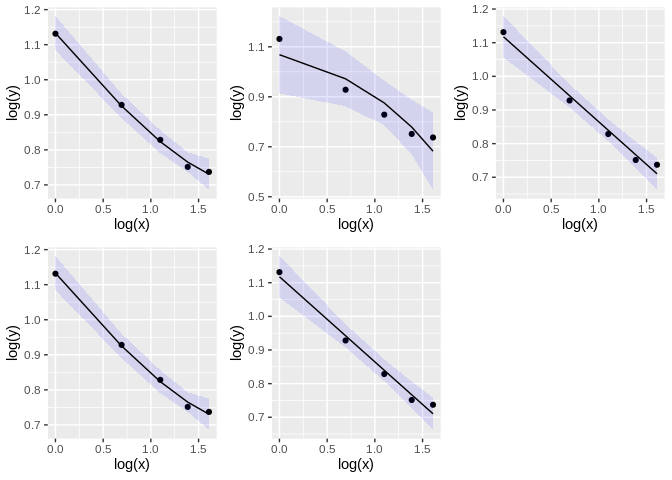
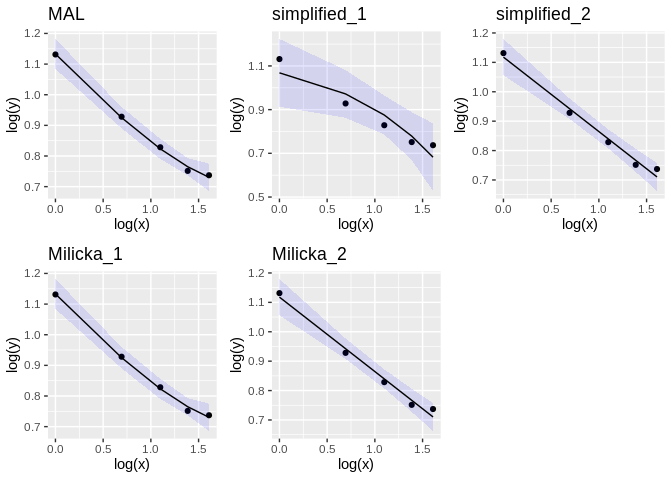
Add figure titles and suggested packages

diff --git a/README.md b/README.md
@@ -189,14 +189,12 @@ parameters from real data. We can do so using Altmann’s data (Altman
 ``` r
 library(cowplot)
 ms <- menzerath(morpheme_syllable)
-MAL_plot <- plot(ms, fit=TRUE, method="MAL")
-simplified_1_plot <- plot(ms, fit=TRUE, method="simplified_1")
-simplified_2_plot <- plot(ms, fit=TRUE, method="simplified_2")
-Milicka_1_plot <- plot(ms, fit=TRUE, method="Milicka_1")
-Milicka_2_plot <- plot(ms, fit=TRUE, method="Milicka_2")
-plot_grid(MAL_plot, simplified_1_plot, simplified_2_plot ,Milicka_1_plot, Milicka_2_plot, ncols = 3)
-#> Warning in as_grob.default(plot): Cannot convert object of class numeric into a
-#> grob.
+MAL_plot <- plot(ms, fit=TRUE, method="MAL") + ggtitle("MAL")
+simplified_1_plot <- plot(ms, fit=TRUE, method="simplified_1") + ggtitle("simplified_1")
+simplified_2_plot <- plot(ms, fit=TRUE, method="simplified_2") + ggtitle("simplified_2")
+Milicka_1_plot <- plot(ms, fit=TRUE, method="Milicka_1") + ggtitle("Milicka_1")
+Milicka_2_plot <- plot(ms, fit=TRUE, method="Milicka_2") + ggtitle("Milicka_2")
+plot_grid(MAL_plot, simplified_1_plot, simplified_2_plot ,Milicka_1_plot, Milicka_2_plot, ncol = 3)
 ```
 
 <img src="man/figures/README-alternative_models_fit-1.png" width="100%" />
